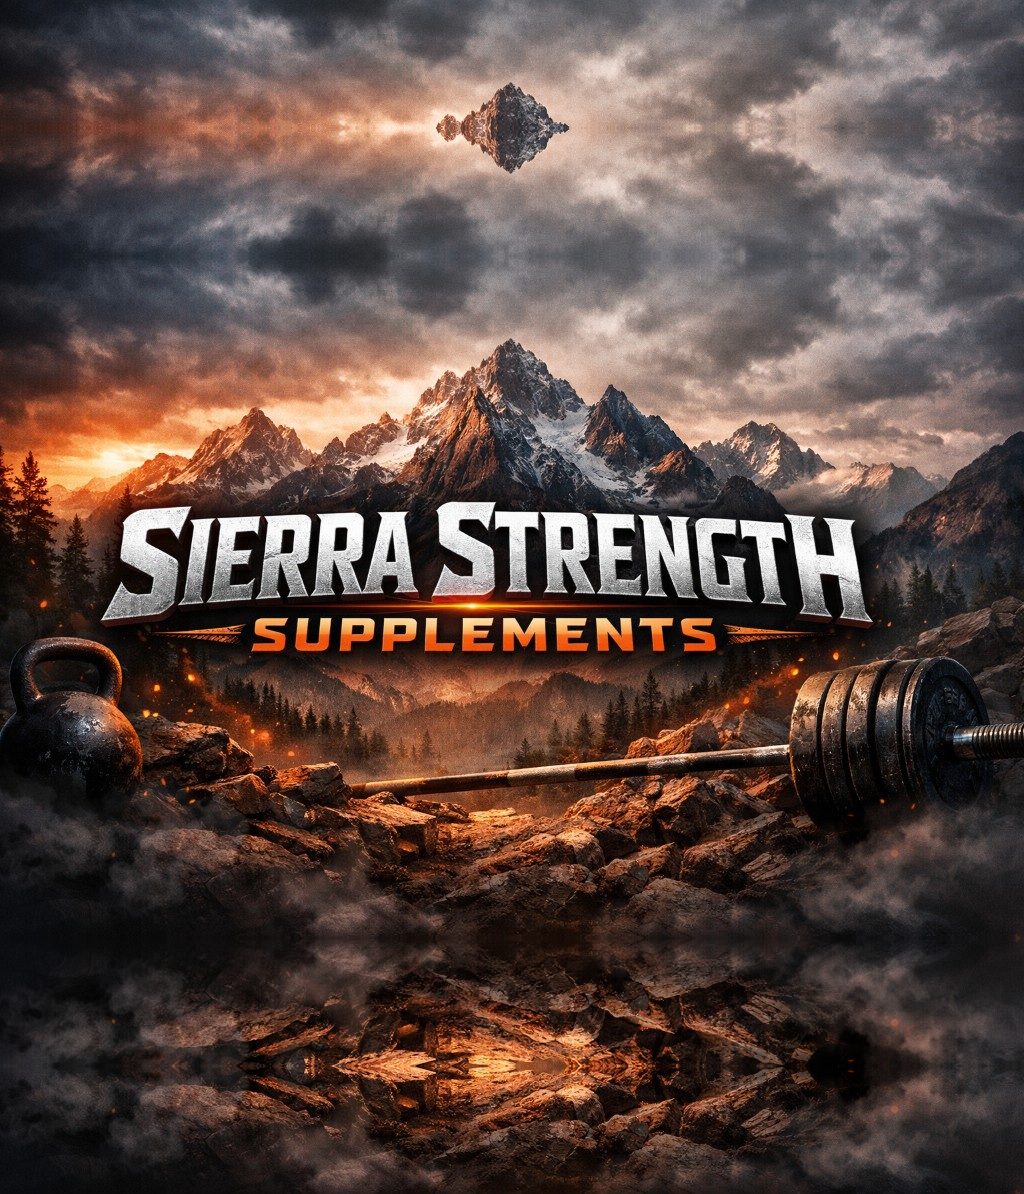
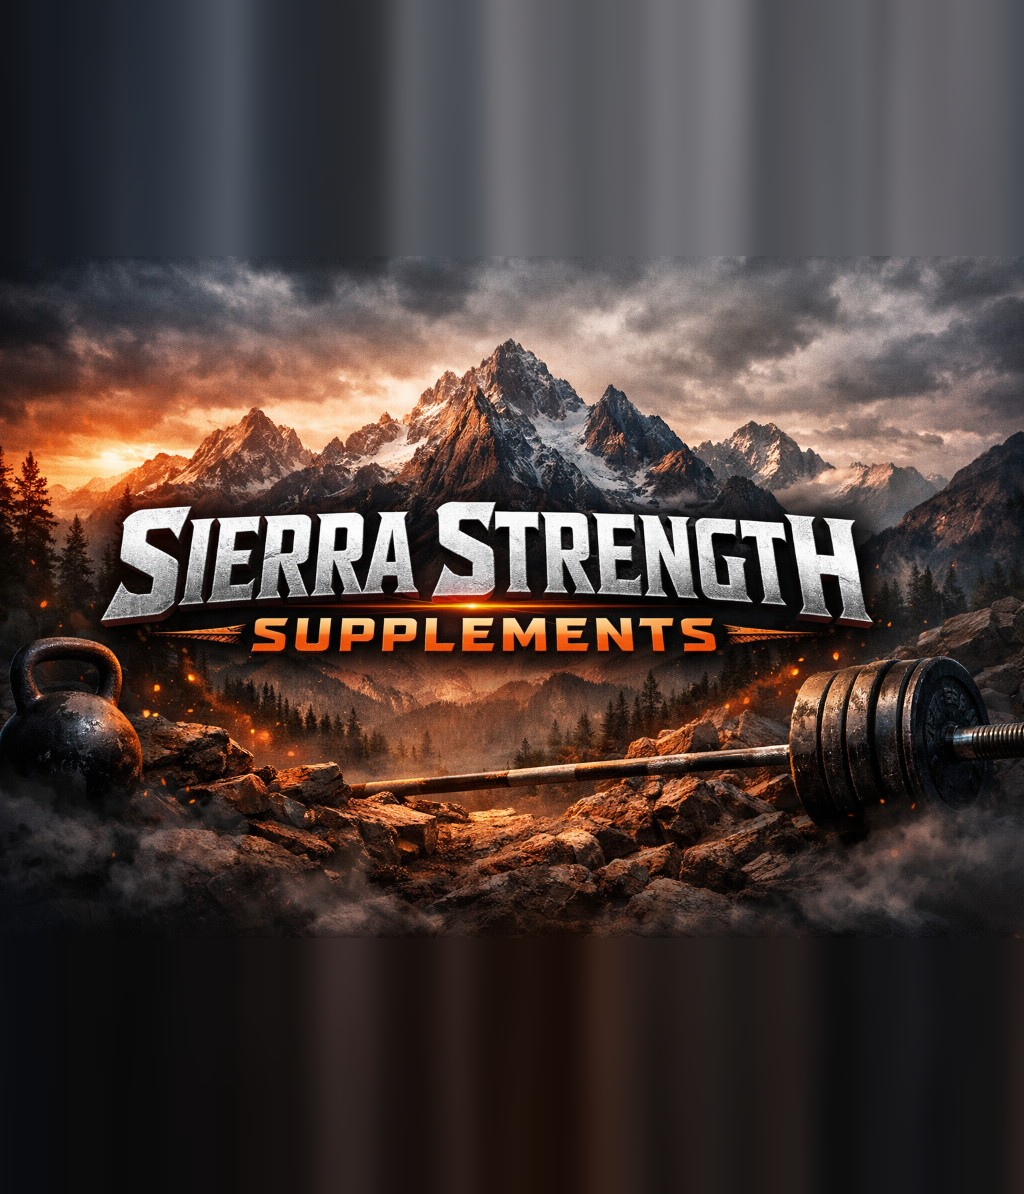
style: fix vertical image extension using stretch to prevent duplicate mountains, shrink desktop hero height, fully revert mobile layout

Changed region(s): [[0.0, 0.0, 1.0, 0.2169], [0.0, 0.7747, 1.0, 1.0]]

diff --git a/src/components/sections/hero.tsx b/src/components/sections/hero.tsx
@@ -57,7 +57,7 @@ export function HeroSection() {
     return (
         <section
             ref={sectionRef}
-            className="relative min-h-[100vh] flex flex-col overflow-hidden"
+            className="relative min-h-[100vh] sm:min-h-[85vh] flex flex-col overflow-hidden"
         >
             {/* ── Background with Ken Burns + Parallax ──────────── */}
             <motion.div
@@ -137,7 +137,7 @@ export function HeroSection() {
             >
                 {/* CTA overlay */}
                 <motion.div
-                    className="mt-[40vh] sm:mt-[15vh] mb-auto w-[90%] max-w-4xl mx-auto z-20"
+                    className="mt-[25vh] sm:mt-[15vh] mb-auto w-[90%] max-w-4xl mx-auto z-20"
                     variants={fadeUp}
                 >
                     <div className="flex flex-col gap-6 justify-center items-center">
